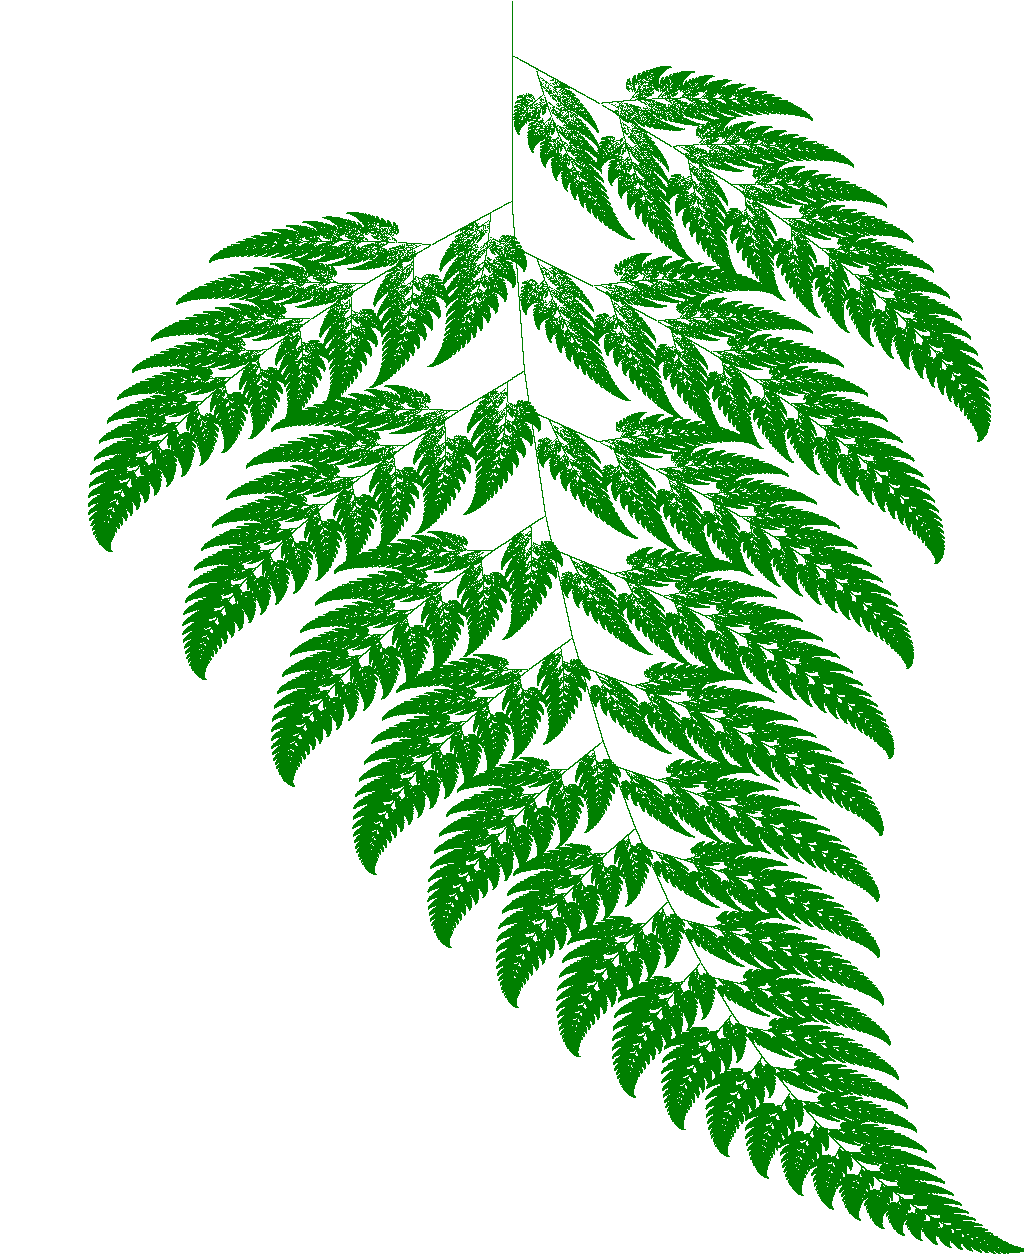
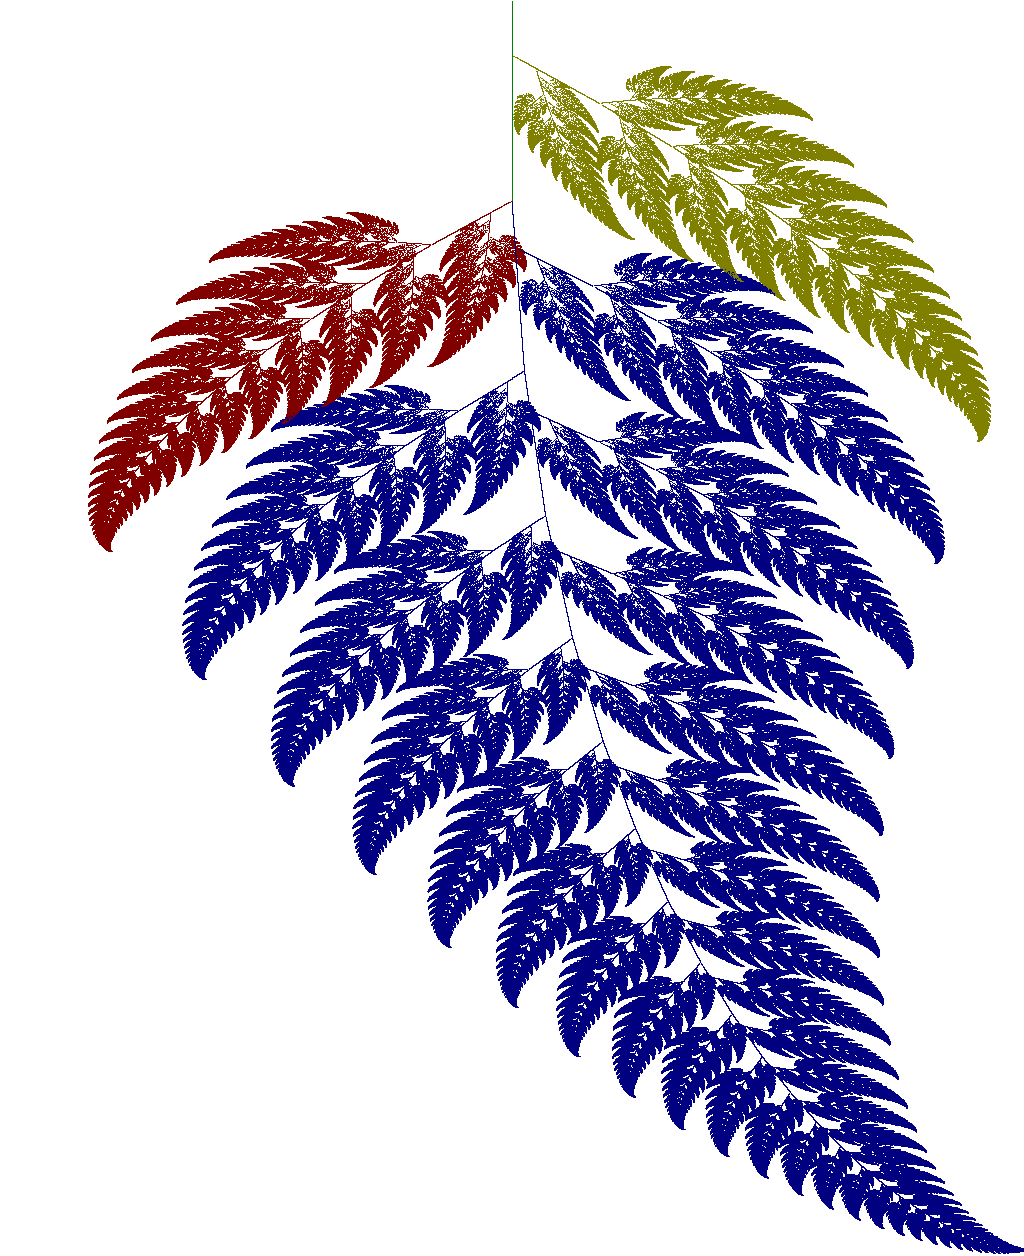
different colours for different functions

Changed region(s): [[0.0625, 0.0311, 1.0, 1.0]]

diff --git a/barnsley.go b/barnsley.go
@@ -11,29 +11,38 @@ import (
 func main() {
 	width := 1024
 	height := 1256
-	var iters = 10000000
-	png.Encode(os.Stdout, generateBarnsleyFern(width, height, iters))
+	var iterations = 10000000
+
+	png.Encode(os.Stdout, generateBarnsleyFern(width, height, iterations))
 }
 
-func generateBarnsleyFern(width int, height int, iters int) *image.RGBA {
+func generateBarnsleyFern(width int, height int, iterations int) *image.RGBA {
 	img := image.NewRGBA(image.Rect(0, 0, width, height))
-	xratio, yratio := calculateCanvasRatios(width, height)
+	xRatio, yRatio := calculateCanvasRatios(width, height)
 	fernGreen := color.RGBA{R: 000, G: 128, B: 000, A: 0xff}
+	fernRed := color.RGBA{R: 128, G: 000, B: 000, A: 0xff}
+	fernBlue := color.RGBA{R: 000, G: 000, B: 128, A: 0xff}
+	fernYellow := color.RGBA{R: 128, G: 128, B: 000, A: 0xff}
 
 	var x float64 = 0
 	var y float64 = 0
-	for i := 0; i < iters; i++ {
+	for i := 0; i < iterations; i++ {
 		r := rand.Intn(100)
+		var colour color.RGBA
 		if r == 1 {
 			x, y = generateStem(x, y)
+			colour = fernGreen
 		} else if r < 87 {
 			x, y = generateSuccessivelySmallerLeaflets(x, y)
+			colour = fernBlue
 		} else if r < 94 {
 			x, y = generateLargestLeftHandLeaflet(x, y)
+			colour = fernRed
 		} else {
 			x, y = generateLargestRightHandLeaflet(x, y)
+			colour = fernYellow
 		}
-		img.Set(int(x*xratio)+width/2, int(y*yratio), fernGreen)
+		img.Set(int(x*xRatio)+width/2, int(y*yRatio), colour)
 	}
 	return img
 }
